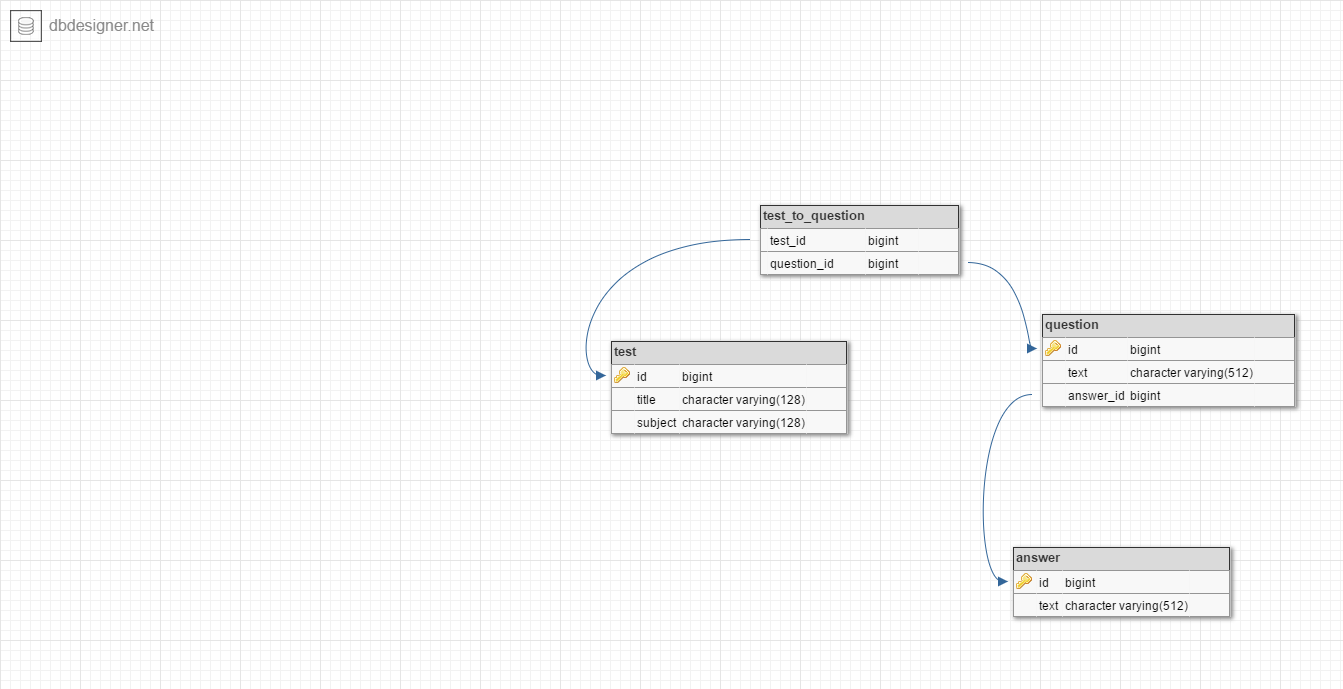
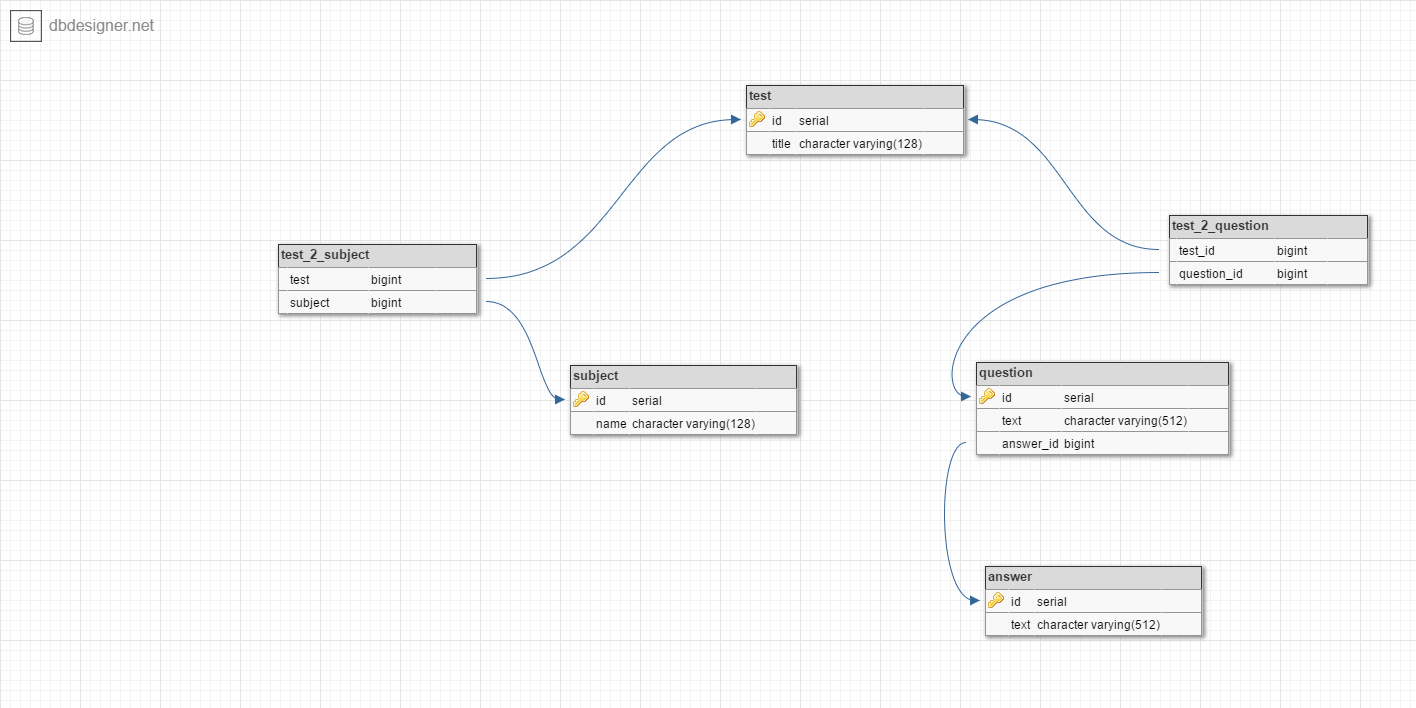
modify DB and subject class

diff --git a/datamodel/src/main/java/com/github/maximkirko/testing/datamodel/models/Test.java b/datamodel/src/main/java/com/github/maximkirko/testing/datamodel/models/Test.java
@@ -4,7 +4,7 @@ import java.util.List;
 
 public class Test extends AbstractModel {
 	private String title;
-	private Subject subjectl;
+	private List<Subject> subject;
 	private List<Question> questions;
 	
 	public String getTitle() {
@@ -15,12 +15,12 @@ public class Test extends AbstractModel {
 		this.title = title;
 	}
 
-	public Subject getSubjectl() {
-		return subjectl;
+	public List<Subject> getSubject() {
+		return subject;
 	}
 
-	public void setSubjectl(Subject subjectl) {
-		this.subjectl = subjectl;
+	public void setSubject(List<Subject> subject) {
+		this.subject = subject;
 	}
 
 	public List<Question> getQuestions() {
@@ -28,6 +28,16 @@ public class Test extends AbstractModel {
 	}
 
 	public void setQuestions(List<Question> questions) {
+		this.questions = questions;
+	}
+
+	public Test() {
+
+	}
+
+	public Test(String title, List<Subject> subject, List<Question> questions) {
+		this.title = title;
+		this.subject = subject;
 		this.questions = questions;
 	}	
 }

diff --git a/datamodel/src/main/java/com/github/maximkirko/testing/datamodel/models/Subject.java b/datamodel/src/main/java/com/github/maximkirko/testing/datamodel/models/Subject.java
@@ -1,0 +1,20 @@
+package com.github.maximkirko.testing.datamodel.models;
+
+public class Subject extends AbstractModel {
+	private String name;
+
+	public String getName() {
+		return name;
+	}
+
+	public void setName(String name) {
+		this.name = name;
+	}
+
+	public Subject() {
+	}
+	
+	public Subject(String name) {
+		this.name = name;
+	}
+}

diff --git a/datamodel/src/main/java/com/github/maximkirko/testing/datamodel/models/Question.java b/datamodel/src/main/java/com/github/maximkirko/testing/datamodel/models/Question.java
@@ -21,4 +21,13 @@ public class Question extends AbstractModel {
 	public void setAnswer(Answer answer) {
 		this.answer = answer;
 	}
+
+	public Question() {
+		
+	}
+
+	public Question(String text, Answer answer) {
+		this.text = text;
+		this.answer = answer;
+	}
 }

diff --git a/datamodel/src/main/java/com/github/maximkirko/testing/datamodel/models/Answer.java b/datamodel/src/main/java/com/github/maximkirko/testing/datamodel/models/Answer.java
@@ -10,4 +10,12 @@ public class Answer extends AbstractModel {
 	public void setText(String text) {
 		this.text = text;
 	}
+
+	public Answer() {
+
+	}
+
+	public Answer(String text) {
+		this.text = text;
+	}
 }

diff --git a/datamodel/src/main/java/com/github/maximkirko/testing/datamodel/models/AbstractModel.java b/datamodel/src/main/java/com/github/maximkirko/testing/datamodel/models/AbstractModel.java
@@ -11,5 +11,4 @@ public class AbstractModel {
     public void setId(Long id) {
         this.id = id;
     }
-
 }
